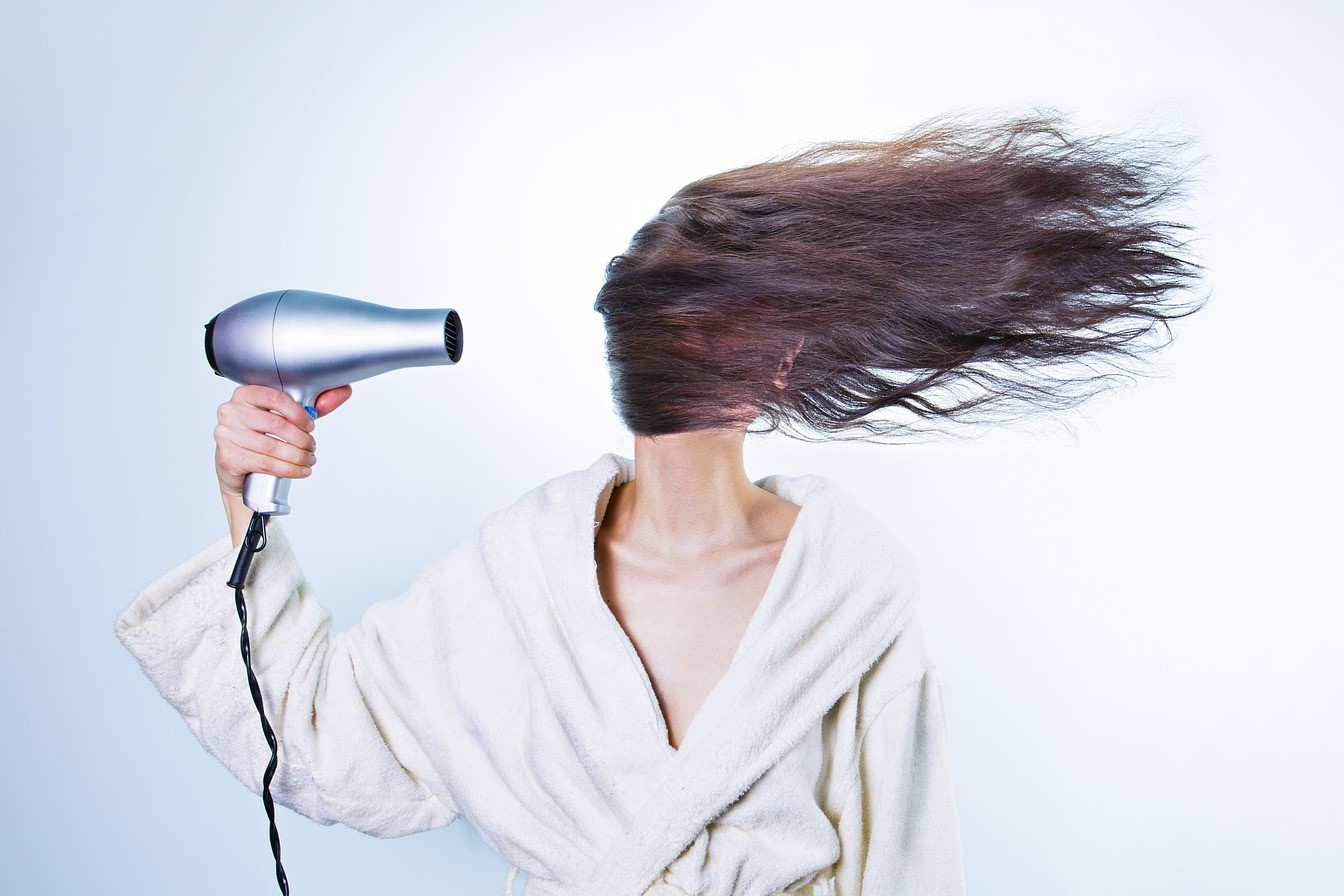
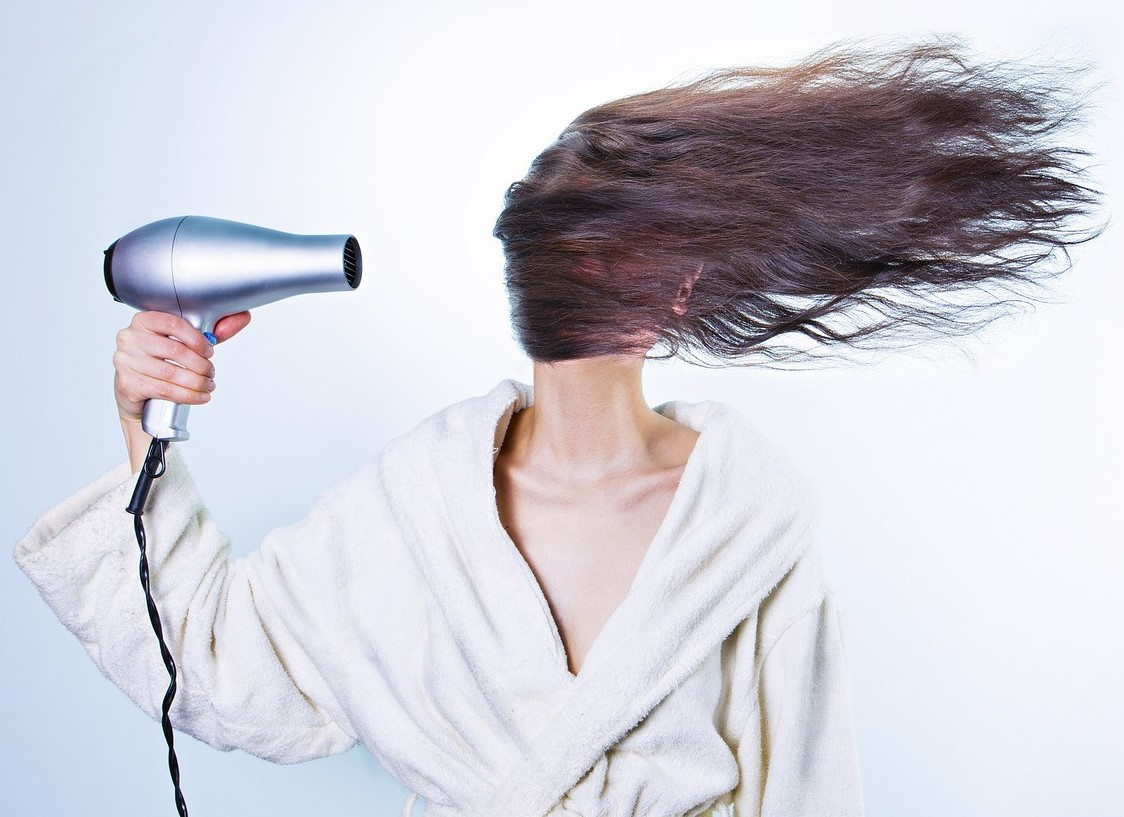
content modified+file name

diff --git a/css/styles.css b/css/styles.css
@@ -71,9 +71,10 @@ h3{
   opacity: 10;
   margin-top: 30px;
   margin-bottom: 5px
+	text-align :left;
 }
 .post-title{
-	margin-top: 200px
+	margin-top: 180px
 }
 p{
   display: block;

diff --git a/_posts/2016-10-25-Errores-que-puedes-estar.md b/_posts/2016-10-25-Errores-que-puedes-estar.md
@@ -7,19 +7,19 @@ image: "errores-secandote-pelo.png"
  <article class="container mod-row">
   <div class="container-item-text-left">
    <p>
-    Hoy te contamos algunos trucos para obtener un mejor resultado secandote el pelo y sobretodo para ayudarte a no dañarlo.
+    Queremos compartir contigo algunos trucos para obtener un mejor resultado secandote el pelo y sobretodo para ayudarte a no dañarlo.
    </p>
  </div>
  <div>
-    <img src="img/secarse-el-pelo.jpg" width="310" height="360" alt="Errores cuando te secas el pelo">
+    <img src="img/secarse-el-pelo.jpg" width="310" height="auto" alt="Errores cuando te secas el pelo">
  </div>
-   <h3> E1. Tener el pelo demasiado mojado</h3>
+   <h3>E1. Tener el pelo demasiado mojado cuando empiezas a secarlo</h3>
    <p>
-    Lo creas o no, tu cabello tiene que estar ya seco al 80% antes de que empieces a peinarlo y secarlo. Tratar de peinarlo antes de haber quitado la humedad te costará el doble de tiempo y dañaras el doble tu cabello. Para reducir la exposición al calor tanto como sea posible, empieza por secar a fondo tu pelo con una toalla. Si tienes un poco de tiempo, deja que se seque al aire. Si no es así, utiliza el secador de pelo y los dedos para eliminar el exceso de agua del cabello. No necesitas tener el secador demasiado cerca de tu pelo, ya que de momento lo que estamos haciendo es quitar la humedad.
+    Lo creas o no, tu cabello tiene que estar ya seco al 80% antes de que empieces a peinarlo y secarlo. Tratar de peinarlo antes de haber quitado la humedad te costará el doble de tiempo y además dañarás el doble tu cabello. Para reducir la exposición al calor tanto como sea posible, empieza por secar a fondo tu pelo con una toalla. Si tienes un poco de tiempo, deja que se seque al aire. Si no es así, utiliza el secador de pelo y los dedos para eliminar el exceso de agua del cabello. No necesitas poner el secador demasiado cerca de tu pelo, ya que de momento lo que estamos haciendo es quitar la humedad.
    </p>
    <h3> E2. No darte un producto que prepare tu pelo para el secado</h3>
    <p>
-    No importa el tipo de cabello que tengas, desde el pelo liso como una tabla hasta los rizos más apretados, tienes que utilizar un producto que prepare tu pelo al protector antes de comenzar a aplicarle calor. Cuanto más dañado tengas el cabello (y para muchos de nosotros el daño se puede venir del secado) más propenso será al encrespamiento. Por lo tanto, no proteger el cabello del calor del secador podría hacer que su suavidad se pierda con el tiempo.
+    No importa el tipo de cabello que tengas, tanto para el pelo liso como una tabla hasta para los rizos más apretados, tienes que utilizar un producto que prepare tu pelo y lo proteja antes de comenzar a aplicarle calor. Cuanto más dañado tengas el cabello más propenso será al encrespamiento. Por lo tanto, no proteger el cabello del calor del secador podría hacer que su suavidad se pierda con el tiempo.
    </p>
    <h3> E3. No estar usando el producto correcto para tu tipo de pelo</h3>
    <p>
@@ -31,24 +31,24 @@ image: "errores-secandote-pelo.png"
    </p>
    <h3> E5. Estar usando una temperatura incorrecta</h3>
    <p>
-    La mayoría de los secadores tienen tres niveles de temperatura: muy caliente, caliente y frío. A menos que tengas el pelo muy grueso, debes secarte con la temperatura media.. Asegúrate de emplear el ajuste frío para el acabado final.
+    La mayoría de los secadores tienen tres niveles de temperatura: muy caliente, caliente y frío. A menos que tengas el pelo muy grueso, debes secarte con la temperatura media. Asegúrate de emplear el ajuste frío para el acabado final.
   </p>
   <h3> E6. Haber hecho mal las particiones del pelo</h3>
   <p>
     No hay una sola forma correcta de hacer las particiones de tu cabello, pero hay dos cosas que debes tener en cuenta.
-     Primero, las particiones que estás trabajando deben ser lo suficientemente pequeñas para que sean fáciles de trabajar.
-     Segundo, céntrate primero en las secciones alrededor de la cara y la parte superior porque estas son las secciones que son más visibles.
-     Cuando cojas cada partición trabaja los mechones de 2 en 2.
+    Primero, las particiones que estás trabajando deben ser lo suficientemente pequeñas para que sean fáciles de trabajar.
+    Segundo, céntrate primero en las secciones alrededor de la cara y la parte superior ya que estas son las  más visibles.
+    Cuando cojas cada partición trabaja los mechones de 2 en 2.
   </p>
   <h3> E7. No estar secando el pelo en al dirección correcta.</h3>
   <p>
-    Tienes que utilizar dos técnicas diferentes cuando te secas el pelo. En la raíz, tienes que secar en la dirección opuesta a la que cae el cabello. Eso significa que, si el cabello va la derecha, sécalo hacia la izquierda. Utiliza la misma lógica para determinar la dirección para secar toda la cabeza para maximizar la elevación de la raíz. Para los extremos, haz exactamente lo contrario y seca el pelo en hacia abajo alrededor de la curva de tu cepillo redondo. Esto le dará la máxima suavidad.
+    Tienes que utilizar dos técnicas diferentes cuando te secas el pelo. En la raíz, tienes que secar el pelo en la dirección opuesta a la que cae el cabello. Eso significa que, si el cabello va la derecha, hay que secarlo hacia la izquierda. Utiliza la misma lógica para determinar la dirección a usar para toda la cabeza y maximizar la elevación de la raíz. Para los extremos, haz exactamente lo contrario y seca el pelo hacia abajo. Esto le dará la máxima suavidad.
   </p>
   <h3> E8. No usar la boquilla del secador.</h3>
   <p>
-   La boquilla extraíble de tu secador de pelo puede parecer un extra innecesario, pero, en realidad, hacen que la dirección y la concentración  del aire sea muy precisa, lo que puede ser de ayuda en el error 7.
+   La boquilla extraíble de tu secador de pelo puede parecer un extra innecesario, pero, en realidad, hace que la dirección y la concentración  del aire sea muy precisa, lo que puede ser de gran ayuda para evitar el error 7.
    </p>
    <p class="container text-center">
-   Reserva tu cita en Escandalo! &#128521; <a class="button" href="www.peluqueriaescandalozaragoza.es/formulario">Reservar</a>
+   Esperamos que estos consejos sean de utilidad, si tienes cualquier duda pasa por nuestro salón &#128521; <a class="button" href="www.peluqueriaescandalozaragoza.es/formulario">Reservar</a>
    </p>
 </article>

diff --git a/_posts/2016-10-25-caida-de-cabello-en-la-mujer.md b/_posts/2016-10-25-caida-de-cabello-en-la-mujer.md
@@ -7,24 +7,23 @@ image: caida-cabello-mujer.png
 <article class="container mod-row">
  <div class="container-item-text-left">
   <p>
-   Un día te miras en el espejo y notas que una parte de tu cuero cabelludo se ve a través de tu pelo?<br>
+   Un día te miras en el espejo y ¿notas que una parte de tu cuero cabelludo se ve a través de tu pelo?<br>
    ¿Cada vez que te duchas dejas un puñadito de pelo en el desagüe de la ducha?<br>
-   Tales momentos son aterradores, especialmente para las mujeres.
   </p>
 </div>
  <div>
  <img src="img/caida-cabello.jpg" width="400" height="auto" alt="blog peluqueria Escandalo">
  </div>
   <p>
-    Hoy vamos a contarte como funciona el ciclo del pelo en la mujer y cuales puedens er las causas de su caída.
+    Hoy vamos a contarte como funciona el ciclo del pelo en la mujer y cuales pueden ser las causas de su caída.
   </p>
   <p>
-    La mayoría de la gente pierde entre 50 y 100 cabellos todos los días, según la Academia Americana de Dermatología.<br>
+    La mayoría de la gente pierde entre 50 y 100 pelos todos los días según la Academia Americana de Dermatología.<br>
     Los días en los que nos lavamos el pelo, las personas podemos perder hasta 250 hebras.<br>
     Sin embargo, no por eso debemos cometer el error de evitar el lavado en un intento de mantener el pelo, ya que este se caerá de todos modos.
   </p>
   <p>
-    El cabello crece en tres ciclos diferentes: anágena, catágena y telógena.<br>
+    El cabello crece en tres fases diferentes: anágena, catágena y telógena.<br>
     La <b>fase anágena o fase de crecimiento</b>, en la que están alrededor del 90% de los pelos de la cabeza y que dura entre dos y ocho años.<br>
     La <b>fase catágena, o de transición</b>, que dura, por lo general, entre 2 y 3 semanas, durante la cual se contrae el folículo piloso.<br>
     Y por último el <b>ciclo telógeno</b>, que dura alrededor de dos a cuatro meses, y es cuando el cabello descansa.<br>
@@ -35,21 +34,24 @@ image: caida-cabello-mujer.png
     Algunas de las razones para la caída del cabello son:
      <ul class="paragraph-list-ul">
       <li>Un desequilibrio de la tiroides.</li>
-       <li>La falta de hierro y la vitamina D baja.</li>
-       <li>Tener demasiada vitamina A.</li>
-       <li>Medicación: la píldora anticonceptiva, medicamentos para la presión arterial, esteroides, antidepresivos pueden contribuir a la pérdida temporal del cabello.</li>
-       <li>Pérdida de peso significativa.</li>
-       <li>Los cambios hormonales después del embarazo o durante la menopausia.</li>
-       <li>Un evento traumático, como una enfermedad, cirugía o muerte en la familia.</li>
+      <li>La falta de hierro y la vitamina D baja.</li>
+      <li>Tener demasiada vitamina A.</li>
+      <li>Medicación: la píldora anticonceptiva, medicamentos para la presión arterial, esteroides, antidepresivos pueden contribuir a la pérdida temporal del cabello.</li>
+      <li>Pérdida de peso significativa.</li>
+      <li>Los cambios hormonales después del embarazo o durante la menopausia.</li>
+      <li>Un evento traumático, como una enfermedad, una operación de cirugía o la muerte de un ser querido.</li>
      </ul>
    </p>
    <p>
     En la edad madura alrededor del 40% de las mujeres muestran signos de caída del cabello. Este fenómeno se llama alopecia androgenética, una enfermedad de base genética en la que los folículos pilosos se reducen gradualmente y se vuelven menos activos, lo que provoca estragos en el pelo al volverse ralo, caerse más y crezcer menos.<br>
     La bajada de los niveles de estrógeno debidos a la menopausia, pueden también jugar un papel en la pérdida de cabello.<br>
-    Otras mujeres padecen el efluvio telógeno, un desprendimiento temporal provocado por el estrés, enfermedades, deficiencias nutricionales, o cambios hormonales.
+    Otras mujeres padecen el efluvio telógeno, un desprendimiento temporal provocado por el estrés, enfermedad, deficiencias nutricionales o cambios hormonales.
    </p>
    <p>
-    La buena noticia es que podemos contribuir para minimizar la caída del cabello, bien sea modificando nuestra dieta, descansando más, cambiando ciertos medicamentos o incorporarlos a nuestra rutina.&#128515;
+    Ahora que conocemos esta información, la buena noticia es que podemos contribuir en cierta medida a minimizar la caída del cabello, bien sea modificando nuestra dieta, descansando más o cambiando la toma de ciertos medicamentos.&#128515;
    </p>
    <p>Consulta con tu médico y tu peluquero de confianza para que te aconsejen.</p>
+   <p class="container text-center">
+   Pasaté por nuestro salón y cuentanos tu caso, veremos como podemso ayudarte <a class="button" href="www.peluqueriaescandalozaragoza.es/formulario">Reservar</a>
+   </p>
 </article>

diff --git a/_posts/2016-10-25-como-tener-unas-cejas-perfectas.md b/_posts/2016-10-25-como-tener-unas-cejas-perfectas.md
@@ -7,11 +7,11 @@ image: "blog-cejas-perfectas.png"
  <article class="container mod-row">
   <div class="container-item-text-left">
    <p>
-     Imagino que como nosotras siempre te has preguntado ¿Cómo pueden los famosos tener esas cejas siempre tan estupendas, bien peinadas y con todos los pelos en tu sitio?<br>
+     Imagino que como nosotras siempre te has preguntado ¿Cómo pueden los famosos tener esas cejas siempre tan bien peinadas y con todos los pelos en tu sitio?<br>
    </p>
    <p>
-    En peluquería Escándalo hemos descubierto y probado como se hace y queremos compartirlo con nuestras lectoras y clientas.<br>
-    El milagro se llama maquillaje de cejas, y es algo tan simple como un kit compuesto por una sombra, un pincel especial para cejas y 2 plantillas para que elijas la forma y grosor que más te guste.
+    En peluquería Escándalo hemos descubierto y probado como se hace y queremos compartirlo contigo<br>
+    El milagro se llama maquillaje de cejas, y es algo tan simple como un kit compuesto por una sombra, un pincel especial y 2 plantillas para que elijas la forma y grosor que más te guste.
    </p>
  </div>
  <div>
@@ -20,17 +20,17 @@ image: "blog-cejas-perfectas.png"
    <p>
    El modo de empleo es muy sencillo:
      <ul class="paragraph-list-ul">
-       <li>- Primero elige la plantilla que prefieras.</li>
-       <li>- A continuación, con la plantilla puesta en tu ceja, peina la ceja con el pincel de tu kit en sentido contrario al de tus pelos.</li>
+       <li>- Primero elige la plantilla que se adapte mejor a la forma de tu ceja.</li>
+       <li>- A continuación, con la plantilla puesta en tu ceja, peina la ceja con el pincel de tu kit en sentido contrario al del pelo.</li>
        <li>- Ahora, con la plantilla siempre en tu ceja, coge el maquillaje con tu pincel, y peina y pinta la ceja en el sentido de la misma.</li>
-       <li>- Por último quita la plantilla, y voilà!  Una ceja perfecta, en cuatro cómodos pasos.</li>
+       <li>- Por último quita la plantilla, y voilà! &#128525; Una ceja perfecta, en cuatro cómodos pasos.</li>
      </ul>
    </p>
    <p>Nuestro kit profesional tiene 8 sombras en diferentes tonos:
    Taupe, Tan, Charcoal, Black, Dark Brown, Brown, Bronze, Irid Brown.
    </p>
    <p>
-     **Pásate por nuestro salón** y con tu servicio de peluquería **te ofreceremos un maquillaje de cejas** y te asesoraremos sobre qué color va mejor con tu color de piel y de pelo.
+     **Pásate por nuestro salón** y con tu servicio de peluquería **te ofreceremos un maquillaje de cejas** y te asesoraremos sobre el tono de sombra que va mejor con tu color de piel y de pelo.
    </p>
   <div>
    <img src="img/peinadocejas.jpg" width="300" height="auto" alt="Peluqueria Escandalo peinado de cejas">
